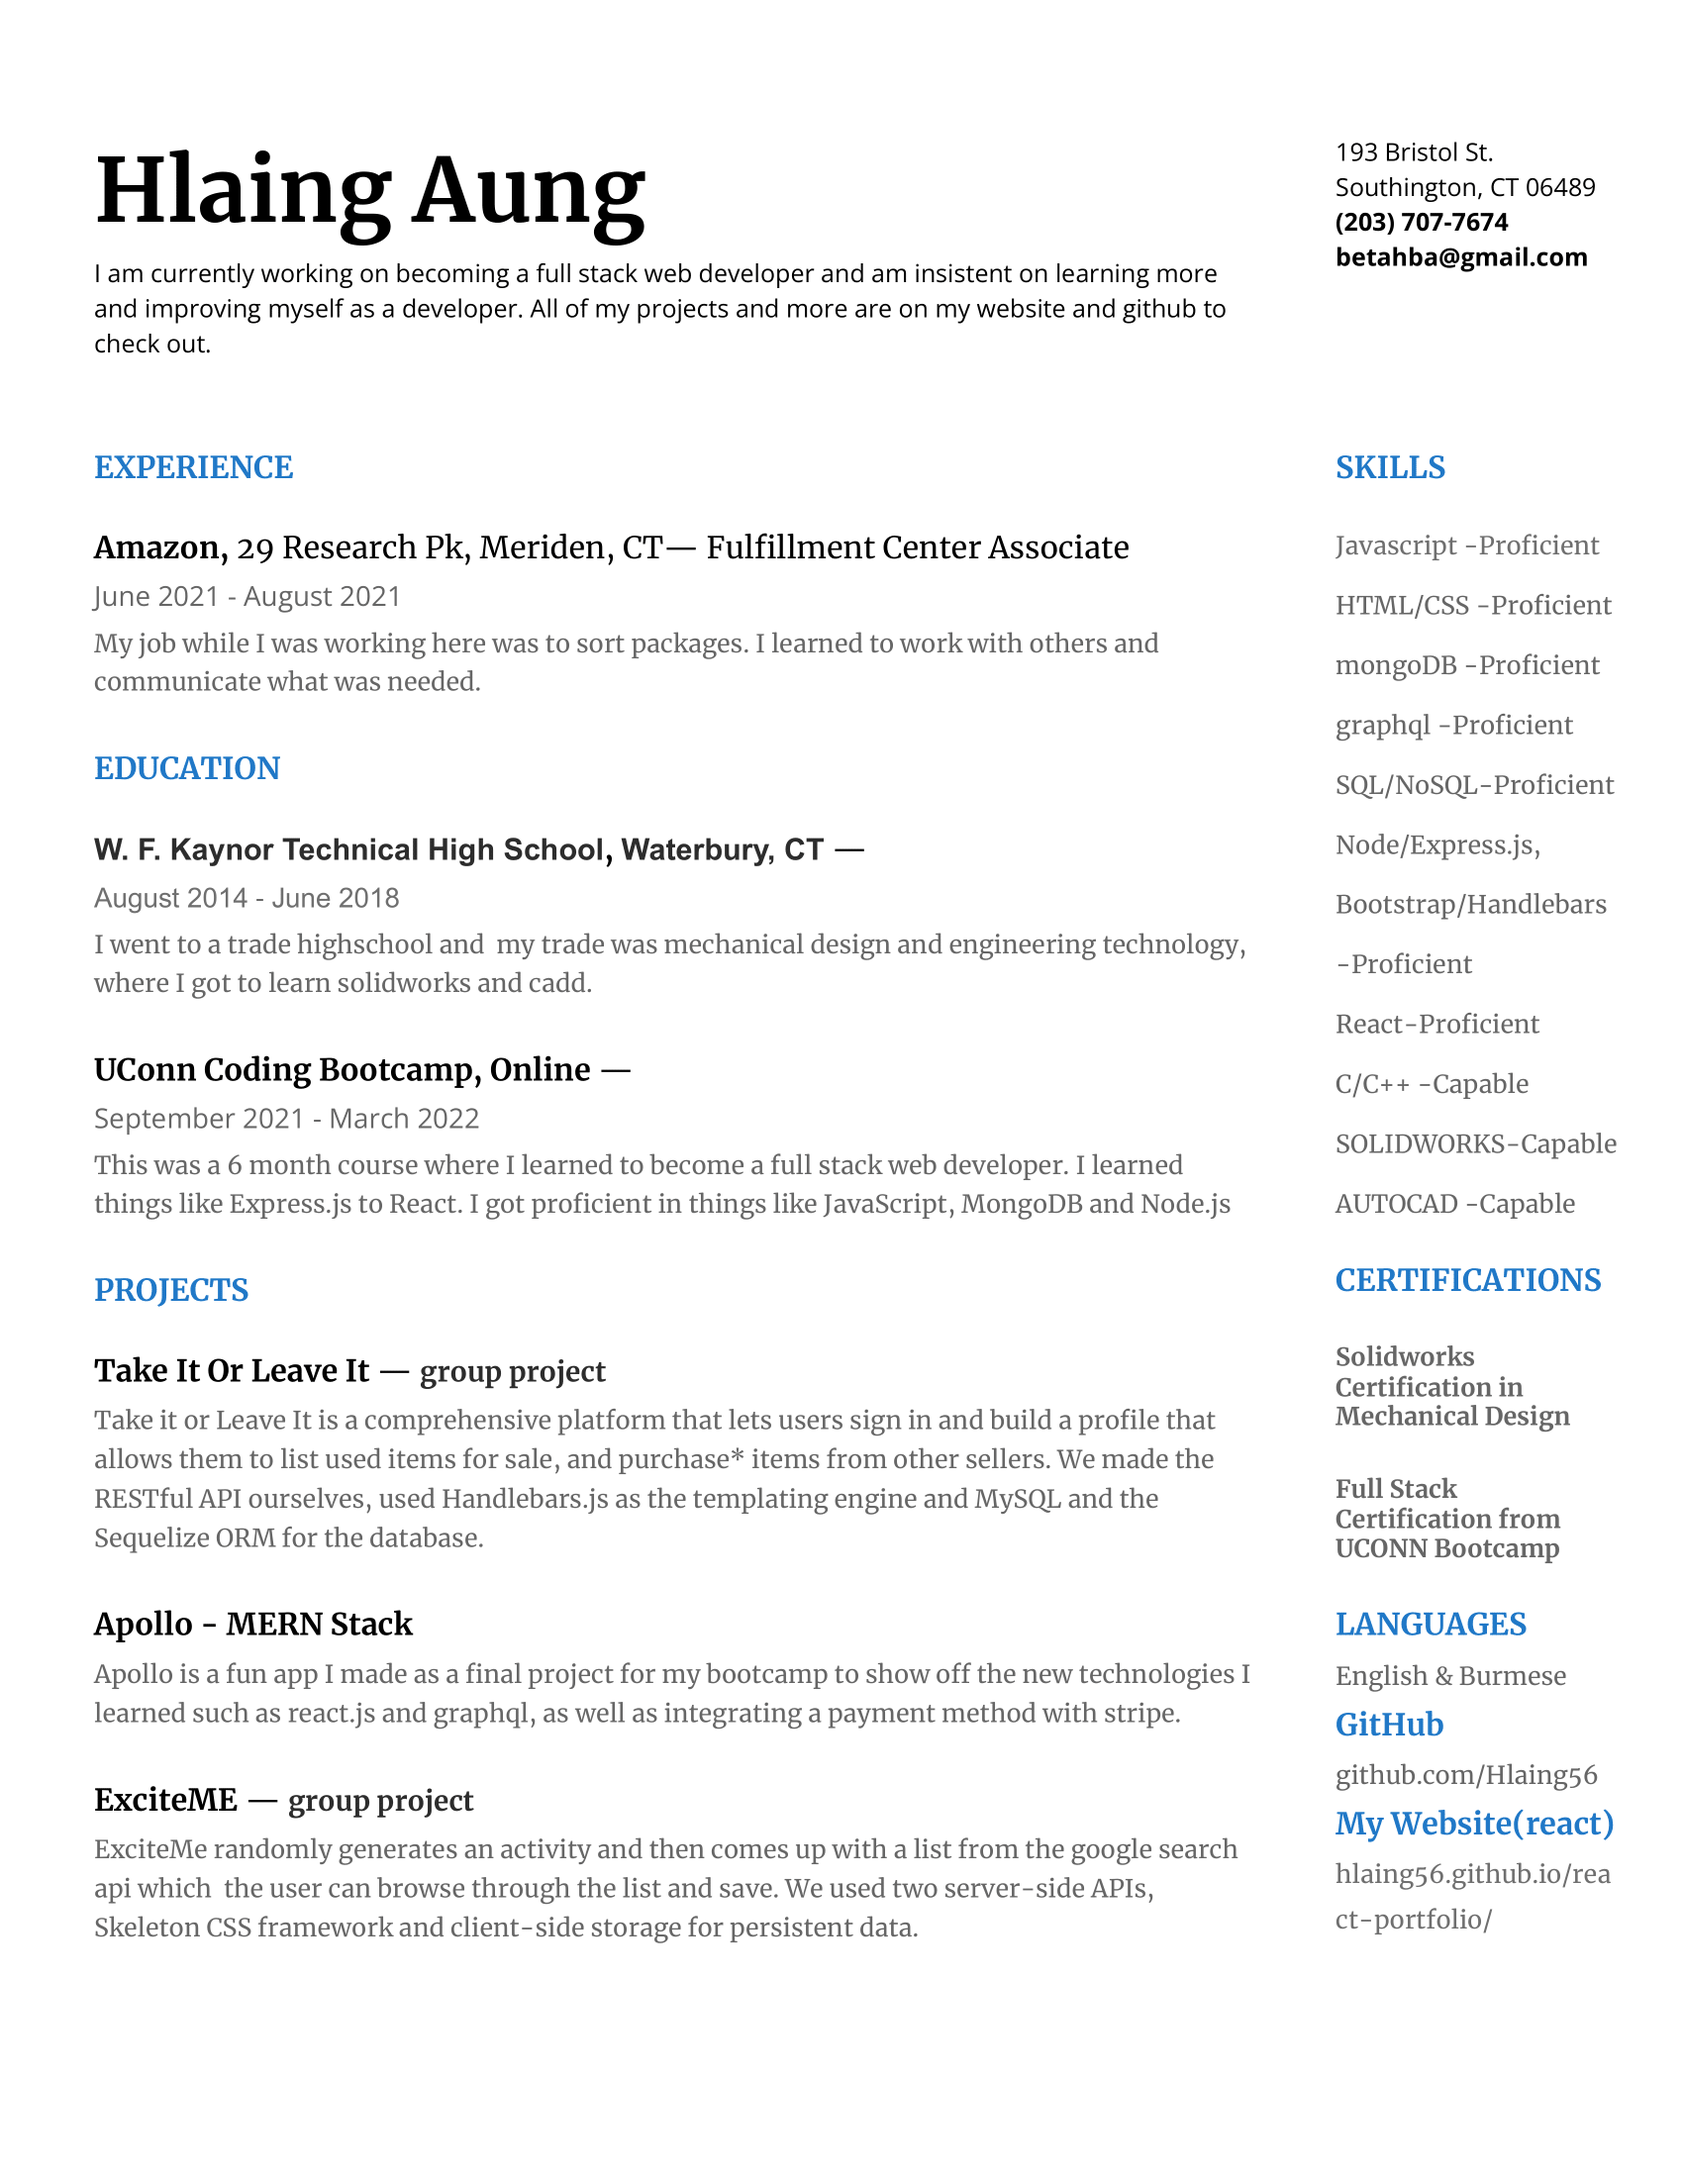
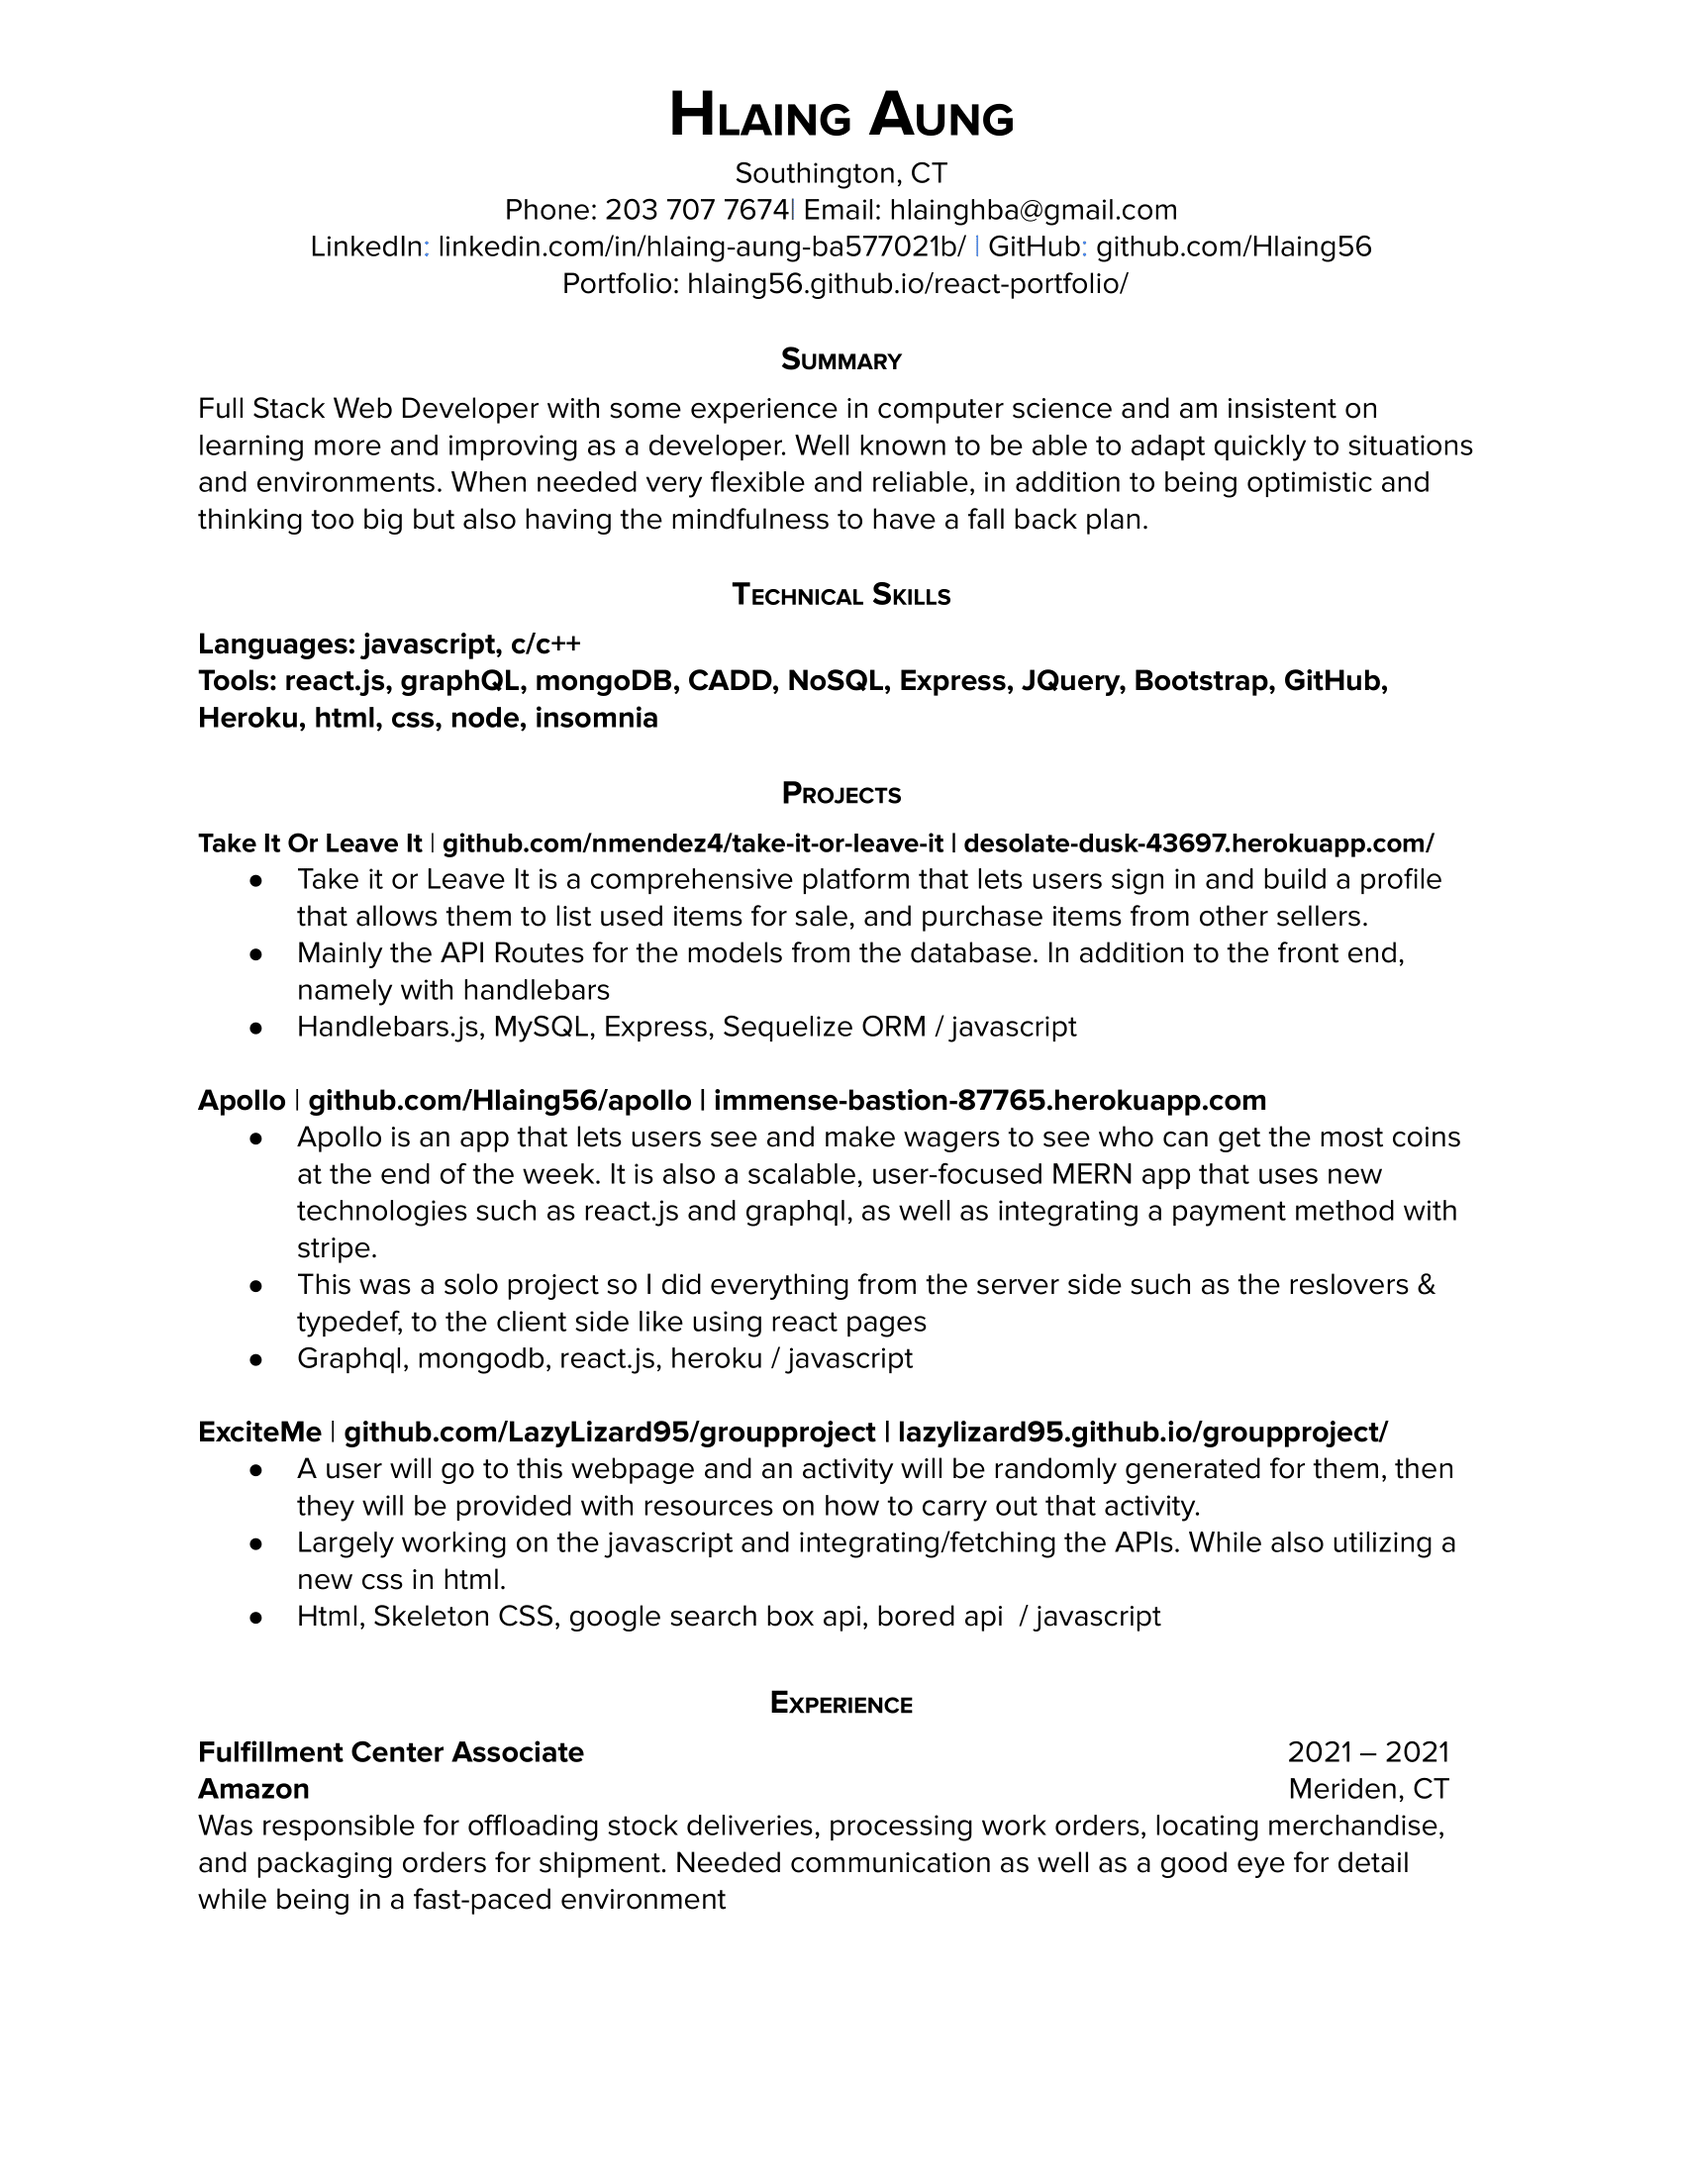
updated

Changed region(s): [[0.0624, 0.0309, 0.9665, 0.8964], [0.5924, 0.5873, 0.6235, 0.6182]]

diff --git a/src/components/About/index.js b/src/components/About/index.js
@@ -11,12 +11,11 @@ function About() {
         <img src={me} alt="cover" style={{width: "11%"}} />
         <br/>
         <br/>
-        My name is Hlaing Aung and I am currently taking a online bootcamp to be a full stack web developer. I am looking to grow and better myself in this field and hoping to get into the industry via an internship, 
-        so I would be grateful if you contact me if I haven't contacted you already. I am bilingual being able to speak both English and Burmese. I am proficient in JavaScript, React, MongoDB and more. 
-        <br/>
-        <br/>
-        A fun quote I like is from the Bee Movie "According to all known laws of aviation, there is no way a bee should be able to fly. Its wings are too small to get its fat little body off the ground.
-        The bee, of course, flies anyway because bees don't care what humans think is impossible."
+        Front-end web developer with basic computer science background so better on the backend. Recently earned a certificate in full stack development from the University of UConn Coding Bootcamp, 
+        with newly developed skills in JavaScript, React.js, Mongodb and many more. With each project, my aim is to personally improve in areas I lack, such as on the front end with design and better my knowledge 
+        in coding and databases to make a great user experience. I worked on a single-page MERN app that lets users create a profile with JWT authentication using the latest technologies like GraphQL. In addition to being 
+        very flexible and reliable in a group environment. I’m excited to bring my skills as part of a fast-paced, quality-driven team to make better experiences on the internet. With my versatility and drive to grow this 
+        makes me an excellent candidate for any team. 
     </section>
   );
 }

diff --git a/src/components/Resume/index.js b/src/components/Resume/index.js
@@ -1,16 +1,19 @@
 import React from 'react';
 import coverImage from "../../images/Resume.png";
+import coverImage2 from "../../images/Resume2.png";
 
 
 function Resume() {
   return (
     <section className="my-5 flex-resume">
       <div>
-        Download my <a href="https://docs.google.com/document/d/18d1908gCY_3KAt6rk5r_Eps2X-zRg1mYBsivsT3sez0/edit?usp=sharing"
+        Download my <a href="https://docs.google.com/document/d/1Xiyl3SQIAHK_bwqkAsyEbhQ3WXMkUY9zxTO6039b1e4/edit?usp=sharing"
         style={{ textDecoration: "underline" }}> Resume</a>
       </div>
       <br/>
       <img src={coverImage} style={{ width: "65%" }} alt="resume" />
+      <br/>
+      <img src={coverImage2} style={{ width: "65%" }} alt="resume page 2" />
     </section>
   );
 }
